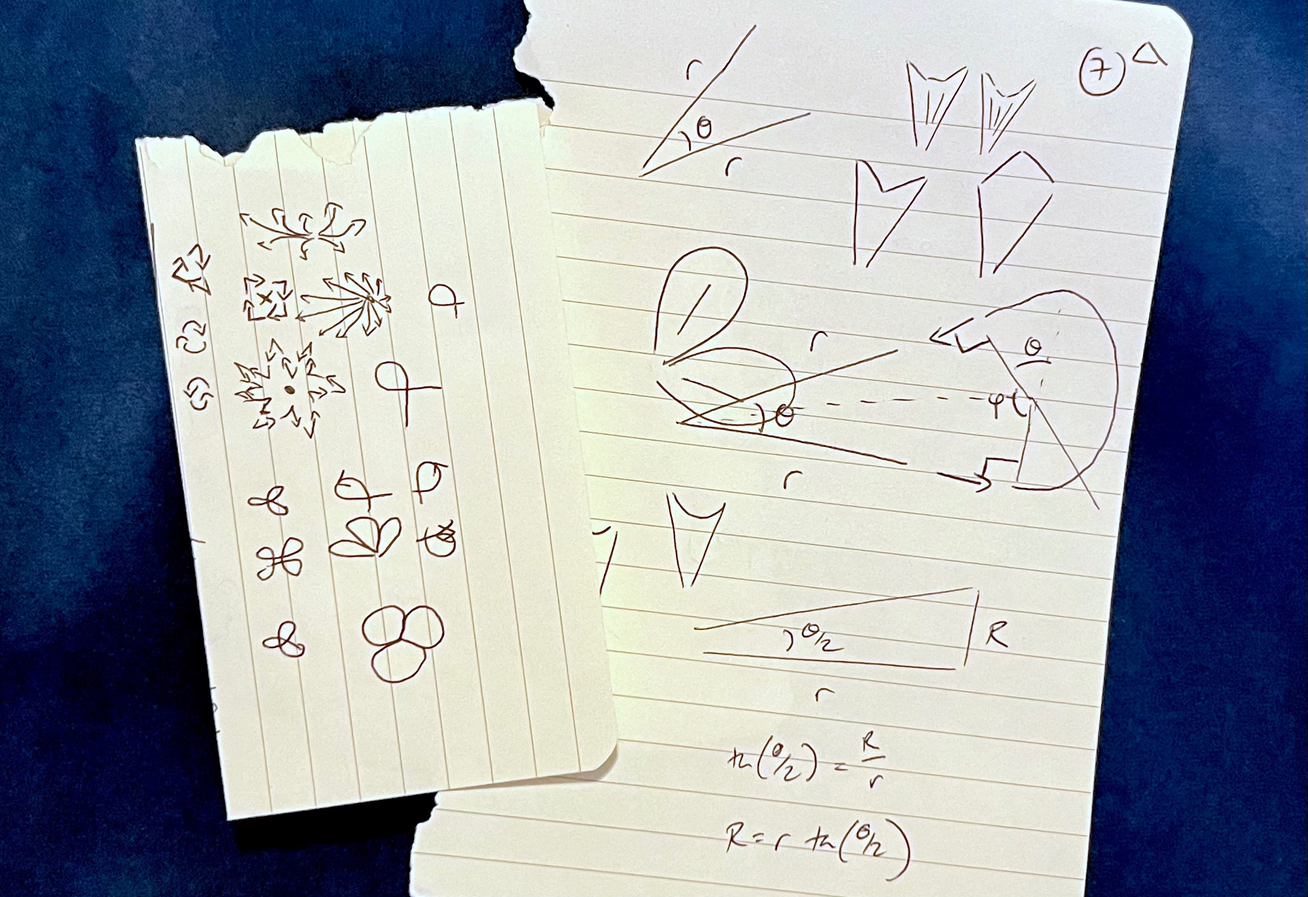
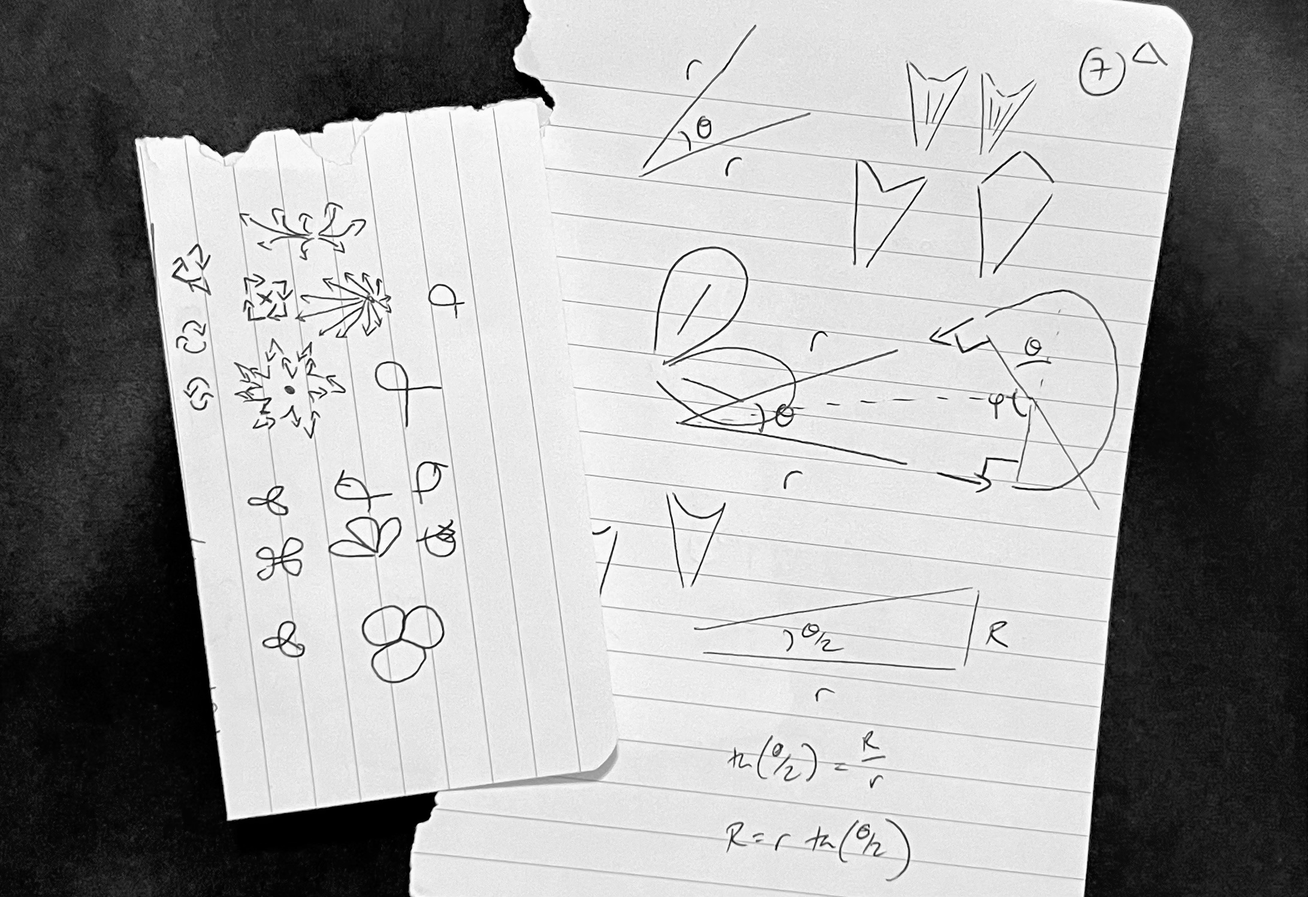
Add some alt text

diff --git a/src/_drafts/drawing-repetitive-radial-artworks.md b/src/_drafts/drawing-repetitive-radial-artworks.md
@@ -15,7 +15,7 @@ These are a few of my doodles:
   picture
   filename="doodles.jpg"
   width="750"
-  style="filter: saturate(0%);"
+  alt="A couple of sheets of paper with various hand-drawn doodles showing simple geometric shapes and circles."
 %}
 
 I was trying to draw various patterns that could be repeated around a central point.
